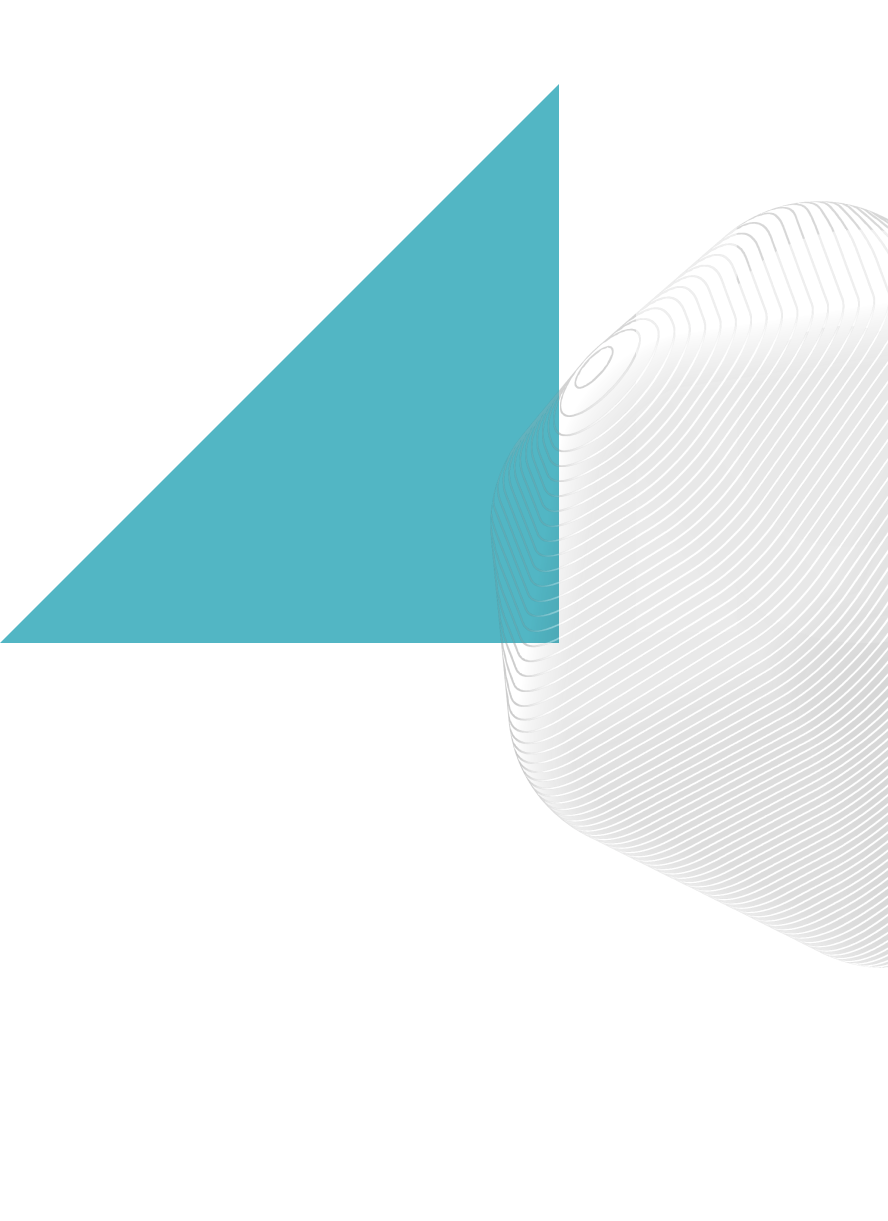
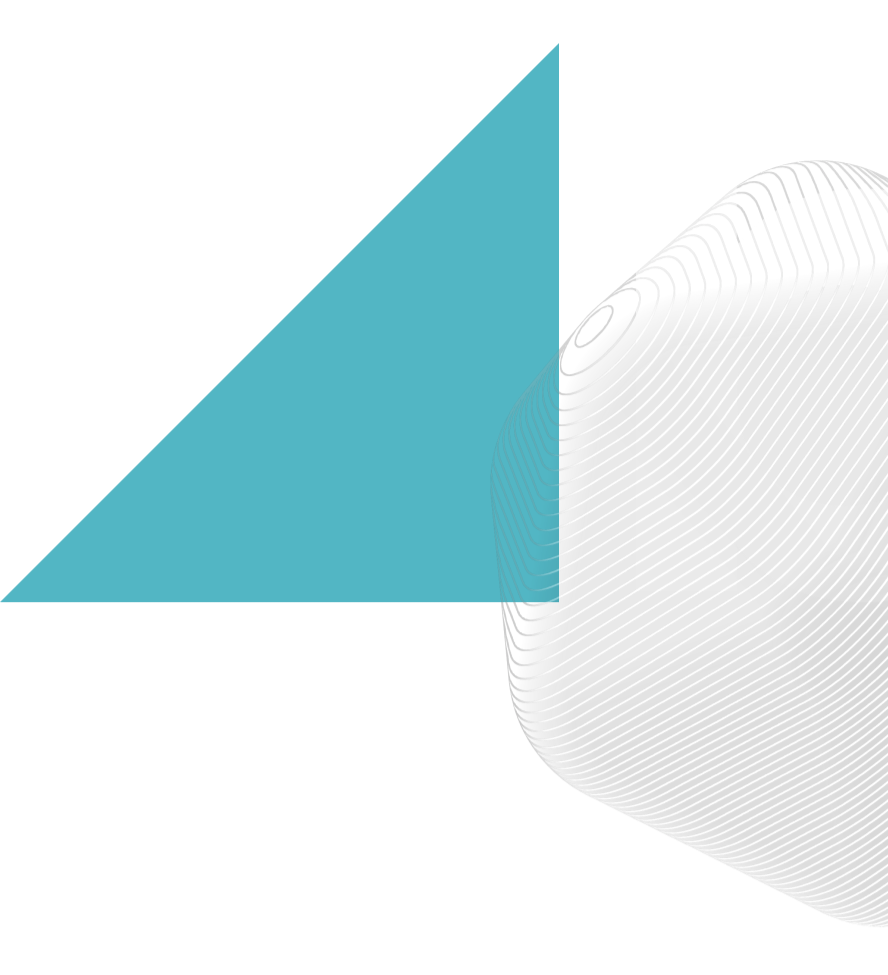
fix: Update image

diff --git a/pages/_document.tsx b/pages/_document.tsx
@@ -5,11 +5,11 @@ export default function Document() {
   return (
     <Html lang="en">
       <Head />
-      <body className="bg-[#052327] bg-main-gradient relative">
+      <body className="bg-[#052327] bg-main-gradient relative overflow-x-hidden">
         <Image
-          className="absolute top-20 right-0 mix-blend-soft-light"
+          className="absolute top-36 right-0 mix-blend-soft-light object-cover"
           src="/images/hero-pattern.png"
-          alt="hero-pattern"
+          alt="Hero pattern"
           width={850}
           height={950}
         />

diff --git a/pages/team.tsx b/pages/team.tsx
@@ -34,7 +34,7 @@ export default function Team() {
         ))}
       </div> */}
 
-      <div className="mt-16 grid gap-y-10 grid-rows-3 grid-cols-4 max-md:grid-cols-1">
+      <div className="mt-16 grid gap-y-10 grid-rows-2 grid-cols-4 max-md:grid-cols-1">
         {TEAM_MEMBERS.map((member) => (
           <TeamAvatar
             key={member.id}
